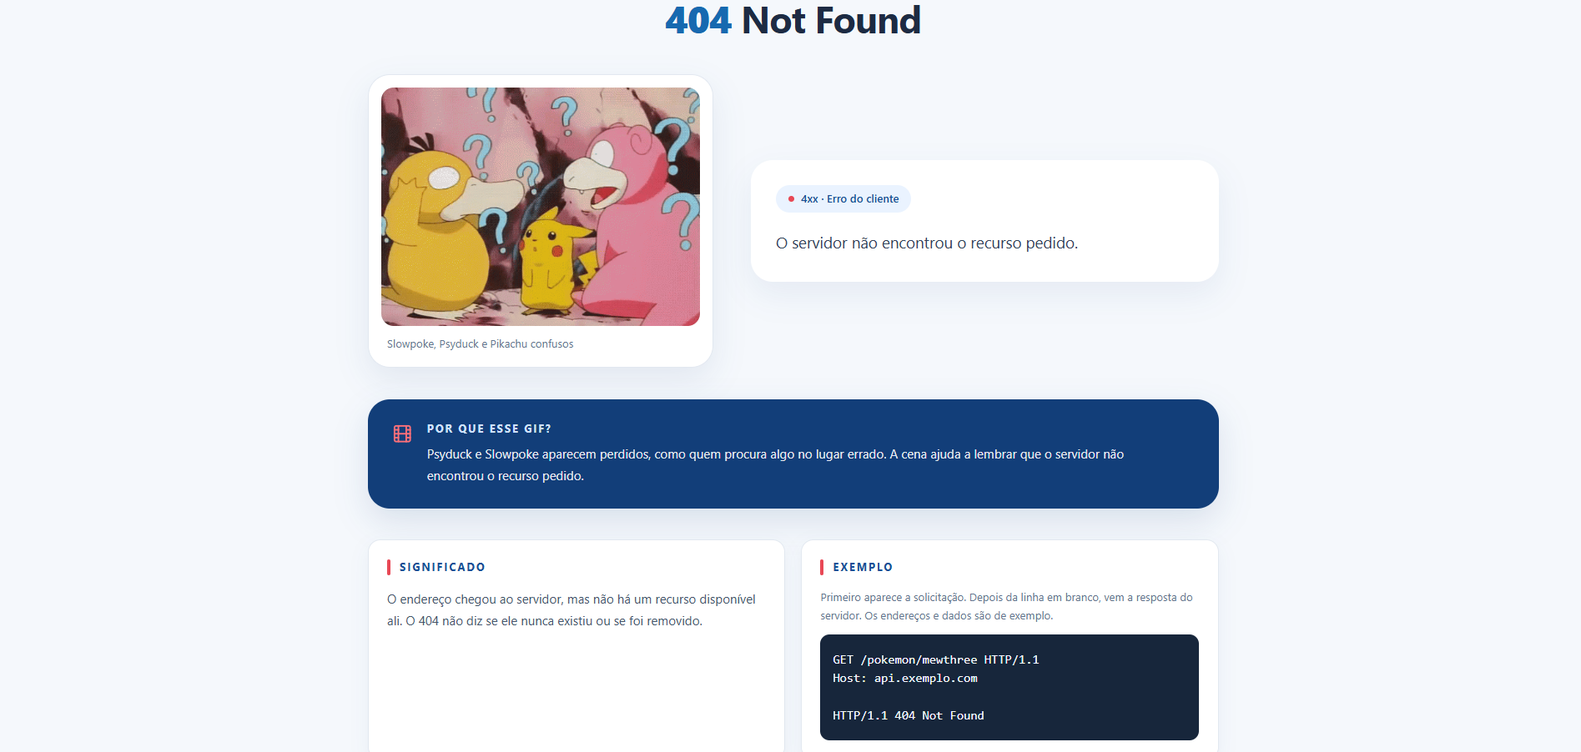
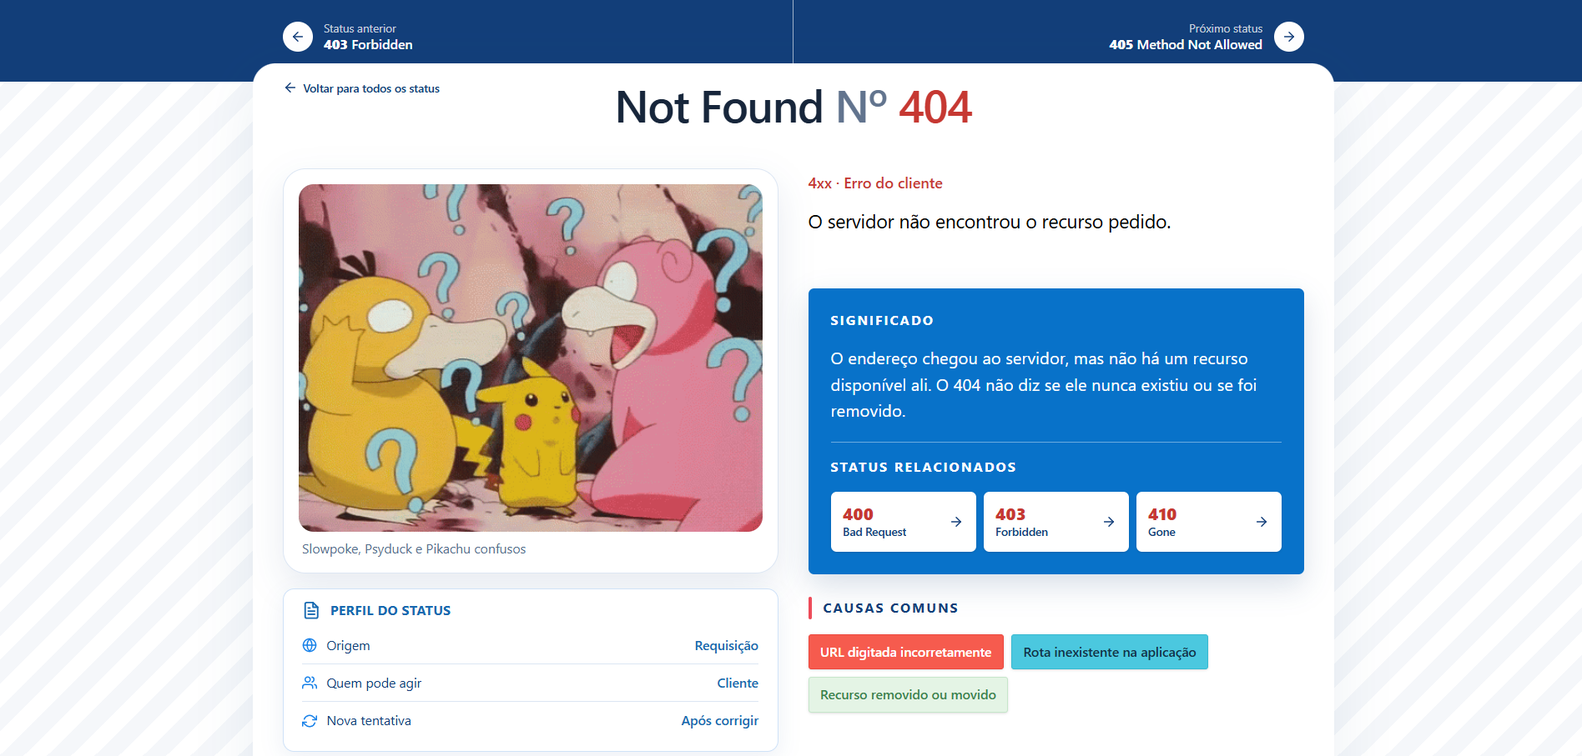
feat: adiciona tema escuro e arruma imagem desatualizada do readme

diff --git a/src/pages/Status/index.tsx b/src/pages/Status/index.tsx
@@ -129,7 +129,7 @@ const rfc9110Statuses = new Set([
 
 function SectionHeading({ id, children, accent = true }: { id?: string; children: ReactNode; accent?: boolean }) {
   return (
-    <h2 id={id} className="mb-4 flex items-center gap-3 text-sm font-bold uppercase tracking-[0.14em] text-[#123e79]">
+    <h2 id={id} className="mb-4 flex items-center gap-3 text-sm font-bold uppercase tracking-[0.14em] text-[#123e79] dark:text-[#b8d9ff]">
       {accent && <span aria-hidden="true" className="h-6 w-1 shrink-0 rounded-full bg-[#ed4b59]" />}
       {children}
     </h2>
@@ -143,11 +143,11 @@ export default function StatusPage() {
 
   if (!status) {
     return (
-      <div className="flex min-h-screen flex-col bg-[#f5f8fc] text-[#1c2b43]">
+      <div className="flex min-h-screen flex-col bg-[#f5f8fc] text-[#1c2b43] dark:bg-[#202020] dark:text-[#eeeeee]">
         <main className="mx-auto flex w-full max-w-3xl flex-1 flex-col items-center justify-center px-6 py-20 text-center">
           <p className="mb-3 text-sm font-bold uppercase tracking-[0.18em] text-[#e84855]">Status não cadastrado</p>
-          <h1 className="text-4xl font-black tracking-tight text-[#123e79] sm:text-5xl">Não encontramos esse código</h1>
-          <p className="mt-4 max-w-xl text-base leading-7 text-black">Ainda não temos esse código por aqui.</p>
+          <h1 className="text-4xl font-black tracking-tight text-[#123e79] dark:text-[#eeeeee] sm:text-5xl">Não encontramos esse código</h1>
+          <p className="mt-4 max-w-xl text-base leading-7 text-black dark:text-[#cecece]">Ainda não temos esse código por aqui.</p>
           <Link className="mt-8 rounded-full bg-[#1769b0] px-6 py-3 font-semibold text-white transition hover:bg-[#12548f] focus-visible:outline-2 focus-visible:outline-offset-4 focus-visible:outline-[#1769b0]" to="/">
             Voltar ao início
           </Link>
@@ -178,7 +178,7 @@ export default function StatusPage() {
   const causePalettes = getDistinctCausePalettes(status.commonCauses)
 
   return (
-    <div className="min-h-screen bg-[repeating-linear-gradient(135deg,#f5f7fa_0px,#f5f7fa_18px,#ffffff_18px,#ffffff_36px)] text-[#17263b]">
+    <div className="min-h-screen bg-[repeating-linear-gradient(135deg,#f5f7fa_0px,#f5f7fa_18px,#ffffff_18px,#ffffff_36px)] text-[#17263b] dark:bg-[repeating-linear-gradient(135deg,#1c1c1c_0px,#1c1c1c_18px,#242424_18px,#242424_36px)] dark:text-[#eeeeee]">
       <nav aria-label="Navegação entre status" className="bg-[#123e79] text-white">
         <div className="mx-auto grid min-h-24 max-w-6xl grid-cols-2">
           {previousStatus ? (
@@ -196,41 +196,41 @@ export default function StatusPage() {
         </div>
       </nav>
 
-      <main className="relative z-10 mx-auto -mt-5 max-w-6xl rounded-t-3xl bg-white shadow-[0_16px_60px_rgba(18,62,121,0.08)]">
+      <main className="relative z-10 mx-auto -mt-5 max-w-6xl rounded-t-3xl bg-white shadow-[0_16px_60px_rgba(18,62,121,0.08)] dark:bg-[#292929]">
 
         <header className="px-4 pb-4 pt-4 sm:px-8 lg:relative lg:h-28">
-          <Link className="relative z-20 inline-flex items-center gap-1.5 justify-self-start text-xs font-semibold text-[#123e79] transition hover:text-[#0b63b6]" to="/">
+          <Link className="relative z-20 inline-flex items-center gap-1.5 justify-self-start text-xs font-semibold text-[#123e79] transition hover:text-[#0b63b6] dark:text-[#dddddd] dark:hover:text-white" to="/">
             <FiArrowLeft aria-hidden="true" className="size-4 text-[#123e79]" />
             Voltar para todos os status
           </Link>
-          <h1 className={`mt-1 flex flex-wrap items-baseline justify-center gap-x-3 break-words text-center text-3xl font-semibold tracking-tight text-[#17263b] lg:absolute lg:inset-x-0 lg:top-5 lg:mt-0 lg:px-32 ${status.name.length > 22 ? 'lg:text-4xl' : 'lg:text-5xl'}`}>
-            <span>{status.name}</span><span className="text-slate-500">Nº <span style={{ color: statusPalette.color }}>{status.code}</span></span>
+          <h1 className={`mt-1 flex flex-wrap items-baseline justify-center gap-x-3 break-words text-center text-3xl font-semibold tracking-tight text-[#17263b] dark:text-[#f1f1f1] lg:absolute lg:inset-x-0 lg:top-5 lg:mt-0 lg:px-32 ${status.name.length > 22 ? 'lg:text-4xl' : 'lg:text-5xl'}`}>
+            <span>{status.name}</span><span className="text-slate-500 dark:text-[#bdbdbd]">Nº <span style={{ color: statusPalette.color }}>{status.code}</span></span>
           </h1>
         </header>
 
         <div className="px-4 pb-10 sm:px-8 sm:pb-14">
           <section aria-label={`${status.code} ${status.name}`} className="grid min-w-0 items-start gap-6 md:grid-cols-2 md:gap-8">
             <div className="min-w-0 space-y-4">
-              <figure className="w-full min-w-0 rounded-3xl border border-[#dce6f3] bg-white p-3 shadow-[0_14px_36px_rgba(18,62,121,0.10)] sm:p-4">
+              <figure className="w-full min-w-0 rounded-3xl border border-[#dce6f3] bg-white p-3 shadow-[0_14px_36px_rgba(18,62,121,0.10)] dark:border-[#555555] dark:bg-[#303030] sm:p-4">
                 <CardsPokemon key={status.code} alt={status.mediaDescription} media={status.media} mediaType={status.mediaType} />
-                <figcaption className="px-1 pt-2 text-sm text-[#55708f]">{status.mediaDescription}</figcaption>
+                <figcaption className="px-1 pt-2 text-sm text-[#55708f] dark:text-[#c9c9c9]">{status.mediaDescription}</figcaption>
               </figure>
 
-              <section aria-labelledby="status-profile-title" className="rounded-xl border border-[#cfe2f8] bg-white px-4 py-3 shadow-[0_8px_24px_rgba(18,62,121,0.07)] sm:px-5">
-                <h2 id="status-profile-title" className="mb-2 flex items-center gap-2.5 text-sm font-bold uppercase tracking-wide text-[#1769b0]">
+              <section aria-labelledby="status-profile-title" className="rounded-xl border border-[#cfe2f8] bg-white px-4 py-3 shadow-[0_8px_24px_rgba(18,62,121,0.07)] dark:border-[#555555] dark:bg-[#303030] sm:px-5">
+                <h2 id="status-profile-title" className="mb-2 flex items-center gap-2.5 text-sm font-bold uppercase tracking-wide text-[#1769b0] dark:text-[#e0e0e0]">
                   <FiFileText aria-hidden="true" className="size-5 shrink-0" />
                   Perfil do status
                 </h2>
-                <ul className="divide-y divide-[#dce6f3]">
+                <ul className="divide-y divide-[#dce6f3] dark:divide-[#505050]">
                   {[
                     { label: 'Origem', value: statusProfile.origin, icon: FiGlobe },
                     { label: 'Quem pode agir', value: statusProfile.owner, icon: FiUsers },
                     { label: 'Nova tentativa', value: statusProfile.retry, icon: FiRefreshCw },
                   ].map(({ label, value, icon: Icon }) => (
-                    <li className="flex min-h-10 items-center gap-2.5 py-1.5 text-sm text-[#123e79]" key={label}>
-                      <Icon aria-hidden="true" className="size-4 shrink-0 text-[#1680e8]" />
+                    <li className="flex min-h-10 items-center gap-2.5 py-1.5 text-sm text-[#123e79] dark:text-[#dddddd]" key={label}>
+                      <Icon aria-hidden="true" className="size-4 shrink-0 text-[#1680e8] dark:text-[#c8c8c8]" />
                       <span>{label}</span>
-                      <span className="ml-auto max-w-[58%] text-right font-semibold text-[#1769b0]">{value}</span>
+                      <span className="ml-auto max-w-[58%] text-right font-semibold text-[#1769b0] dark:text-[#eeeeee]">{value}</span>
                     </li>
                   ))}
                 </ul>
@@ -239,7 +239,7 @@ export default function StatusPage() {
 
             <div className="min-w-0 pt-1">
               <p className="mb-3 text-base font-medium" style={{ color: statusPalette.color }}>{status.categoryRange} · {status.categoryLabel}</p>
-              <p className="break-words text-lg leading-8 text-black sm:text-xl">{status.description}</p>
+              <p className="break-words text-lg leading-8 text-black dark:text-[#dddddd] sm:text-xl">{status.description}</p>
 
               <section aria-labelledby="meaning-title" className="mt-10 rounded-md bg-[#0872c9] p-5 text-white shadow-[0_12px_30px_rgba(18,62,121,0.16)] sm:mt-14 sm:p-6">
                 <SectionHeading accent={false} id="meaning-title"><span className="text-white">Significado</span></SectionHeading>
@@ -278,10 +278,10 @@ export default function StatusPage() {
             </div>
           </section>
 
-          <section aria-label="Detalhes do status" className="mt-8 grid min-w-0 gap-5 border-t border-[#b8d7f7] pt-5 sm:mt-10 sm:grid-cols-2 sm:gap-6 sm:pt-5">
-            <section className="min-w-0 sm:border-r sm:border-[#b8d7f7] sm:pr-6">
+          <section aria-label="Detalhes do status" className="mt-8 grid min-w-0 gap-5 border-t border-[#b8d7f7] pt-5 dark:border-[#505050] sm:mt-10 sm:grid-cols-2 sm:gap-6 sm:pt-5">
+            <section className="min-w-0 sm:border-r sm:border-[#b8d7f7] sm:pr-6 dark:sm:border-[#505050]">
               <SectionHeading>Por que esse GIF?</SectionHeading>
-              <p className="rounded-md bg-[#eef5ff] px-4 py-3 leading-7 text-black">{status.mediaReason}</p>
+              <p className="rounded-md bg-[#eef5ff] px-4 py-3 leading-7 text-black dark:bg-[#383838] dark:text-[#dddddd]">{status.mediaReason}</p>
             </section>
 
             <section className="min-w-0">
@@ -292,30 +292,30 @@ export default function StatusPage() {
 
           {status.resolutionSteps && <ResolutionGuide steps={status.resolutionSteps} />}
 
-          <section aria-labelledby="references-title" className="mt-4 border-t border-[#b8d7f7] pt-6 sm:mt-5 sm:pt-7">
+          <section aria-labelledby="references-title" className="mt-4 border-t border-[#b8d7f7] pt-6 dark:border-[#505050] sm:mt-5 sm:pt-7">
             <SectionHeading id="references-title">Consulte também</SectionHeading>
             <ul className="space-y-1.5">
               <li>
-                <a className="group flex items-center gap-3 rounded-md bg-[#f2f7fd] px-3 py-2.5 text-[#123e79] transition hover:bg-[#e6f1fc]" href={specificationUrl} rel="noreferrer" target="_blank">
-                  <FiExternalLink aria-hidden="true" className="size-5 shrink-0 text-[#123e79]" />
-                  <span className="min-w-0 flex-1"><span className="block text-sm font-semibold text-[#123e79]">{isRfcStatus ? `RFC ${status.code === 102 || [207, 423, 424].includes(status.code) ? '4918' : status.code === 208 ? '5842' : status.code === 226 ? '3229' : '9110'}` : 'Registro de códigos HTTP · IANA'}</span><span className="block text-xs leading-5 text-black">{isRfcStatus ? `Especificação do status ${status.code} ${status.name}.` : 'Registro oficial dos códigos HTTP.'}</span></span>
-                  <FiArrowRight aria-hidden="true" className="size-4 shrink-0 text-[#123e79] transition group-hover:translate-x-0.5" />
+                <a className="group flex items-center gap-3 rounded-md bg-[#f2f7fd] px-3 py-2.5 text-[#123e79] transition hover:bg-[#e6f1fc] dark:bg-[#373737] dark:text-[#e5e5e5] dark:hover:bg-[#444444]" href={specificationUrl} rel="noreferrer" target="_blank">
+                  <FiExternalLink aria-hidden="true" className="size-5 shrink-0 text-[#123e79] dark:text-[#8fc7ff]" />
+                  <span className="min-w-0 flex-1"><span className="block text-sm font-semibold text-[#123e79] dark:text-[#b8d9ff]">{isRfcStatus ? `RFC ${status.code === 102 || [207, 423, 424].includes(status.code) ? '4918' : status.code === 208 ? '5842' : status.code === 226 ? '3229' : '9110'}` : 'Registro de códigos HTTP · IANA'}</span><span className="block text-xs leading-5 text-black dark:text-slate-300">{isRfcStatus ? `Especificação do status ${status.code} ${status.name}.` : 'Registro oficial dos códigos HTTP.'}</span></span>
+                  <FiArrowRight aria-hidden="true" className="size-4 shrink-0 text-[#123e79] transition group-hover:translate-x-0.5 dark:text-[#8fc7ff]" />
                 </a>
               </li>
               {status.code === 100 && (
                 <li>
-                  <a className="group flex items-center gap-3 rounded-md bg-[#f2f7fd] px-3 py-2.5 text-[#123e79] transition hover:bg-[#e6f1fc]" href="https://developer.mozilla.org/pt-BR/docs/Web/HTTP/Headers/Expect" rel="noreferrer" target="_blank">
-                    <FiExternalLink aria-hidden="true" className="size-5 shrink-0 text-[#123e79]" />
-                    <span className="min-w-0 flex-1"><span className="block text-sm font-semibold text-[#123e79]">Cabeçalho Expect</span><span className="block text-xs leading-5 text-black">Usado para aguardar 100 Continue antes de enviar o corpo.</span></span>
-                    <FiArrowRight aria-hidden="true" className="size-4 shrink-0 text-[#123e79] transition group-hover:translate-x-0.5" />
+                <a className="group flex items-center gap-3 rounded-md bg-[#f2f7fd] px-3 py-2.5 text-[#123e79] transition hover:bg-[#e6f1fc] dark:bg-[#373737] dark:text-[#e5e5e5] dark:hover:bg-[#444444]" href="https://developer.mozilla.org/pt-BR/docs/Web/HTTP/Headers/Expect" rel="noreferrer" target="_blank">
+                    <FiExternalLink aria-hidden="true" className="size-5 shrink-0 text-[#123e79] dark:text-[#8fc7ff]" />
+                    <span className="min-w-0 flex-1"><span className="block text-sm font-semibold text-[#123e79] dark:text-[#b8d9ff]">Cabeçalho Expect</span><span className="block text-xs leading-5 text-black dark:text-slate-300">Usado para aguardar 100 Continue antes de enviar o corpo.</span></span>
+                    <FiArrowRight aria-hidden="true" className="size-4 shrink-0 text-[#123e79] transition group-hover:translate-x-0.5 dark:text-[#8fc7ff]" />
                   </a>
                 </li>
               )}
               <li>
-                <a className="group flex items-center gap-3 rounded-md bg-[#f2f7fd] px-3 py-2.5 text-[#123e79] transition hover:bg-[#e6f1fc]" href={sourceUrl} rel="noreferrer" target="_blank">
-                  <FiExternalLink aria-hidden="true" className="size-5 shrink-0 text-[#123e79]" />
-                  <span className="min-w-0 flex-1"><span className="block text-sm font-semibold text-[#123e79]">{isRfcStatus ? `MDN · HTTP ${status.code} ${status.name}` : 'MDN · Códigos de status HTTP'}</span><span className="block text-xs leading-5 text-black">Documentação e exemplos práticos.</span></span>
-                  <FiArrowRight aria-hidden="true" className="size-4 shrink-0 text-[#123e79] transition group-hover:translate-x-0.5" />
+                <a className="group flex items-center gap-3 rounded-md bg-[#f2f7fd] px-3 py-2.5 text-[#123e79] transition hover:bg-[#e6f1fc] dark:bg-[#373737] dark:text-[#e5e5e5] dark:hover:bg-[#444444]" href={sourceUrl} rel="noreferrer" target="_blank">
+                  <FiExternalLink aria-hidden="true" className="size-5 shrink-0 text-[#123e79] dark:text-[#8fc7ff]" />
+                  <span className="min-w-0 flex-1"><span className="block text-sm font-semibold text-[#123e79] dark:text-[#b8d9ff]">{isRfcStatus ? `MDN · HTTP ${status.code} ${status.name}` : 'MDN · Códigos de status HTTP'}</span><span className="block text-xs leading-5 text-black dark:text-slate-300">Documentação e exemplos práticos.</span></span>
+                  <FiArrowRight aria-hidden="true" className="size-4 shrink-0 text-[#123e79] transition group-hover:translate-x-0.5 dark:text-[#8fc7ff]" />
                 </a>
               </li>
             </ul>

diff --git a/src/pages/Home/index.tsx b/src/pages/Home/index.tsx
@@ -1,5 +1,5 @@
 import { useState } from 'react'
-import { FiCheck, FiCopy } from 'react-icons/fi'
+import { FiCheck, FiCopy, FiMoon, FiSun } from 'react-icons/fi'
 import Cards from '../../components/Cards/Cards'
 import Footer from '../../components/Footer/Footer'
 import httpmonLogo from '../../assets/images/Logotipo_httpmon_transparente.png'
@@ -7,6 +7,7 @@ import { httpStatuses } from '../../services/httpStatuses'
 
 export default function HomePage() {
   const [copied, setCopied] = useState(false)
+  const [isDarkMode, setIsDarkMode] = useState(() => window.localStorage.getItem('httpmon-theme') === 'dark')
   const groups = [
     { range: '1xx', title: 'Respostas informativas', label: 'Informational' },
     { range: '2xx', title: 'Respostas bem-sucedidas', label: 'Success' },
@@ -27,19 +28,37 @@ export default function HomePage() {
     window.setTimeout(() => setCopied(false), 1800)
   }
 
+  function toggleTheme() {
+    const next = !isDarkMode
+    setIsDarkMode(next)
+    window.localStorage.setItem('httpmon-theme', next ? 'dark' : 'light')
+    document.documentElement.classList.toggle('dark', next)
+  }
+
   return (
-    <div className="flex min-h-screen flex-col bg-[#f5f8fc] text-[#1c2b43]">
-      <main className="mx-auto w-full max-w-6xl flex-1 px-4 pb-12 pt-7 sm:px-8 sm:pb-16 sm:pt-12">
+    <div className="flex min-h-screen flex-col bg-[#f5f8fc] text-[#1c2b43] transition-colors duration-200 dark:bg-[#202020] dark:text-[#eeeeee]">
+      <main className="relative mx-auto w-full max-w-6xl flex-1 px-4 pb-12 pt-7 sm:px-8 sm:pb-16 sm:pt-12">
+        <button
+          aria-label={isDarkMode ? 'Ativar tema claro' : 'Ativar tema escuro'}
+          aria-pressed={isDarkMode}
+          className="absolute right-4 top-5 z-10 grid size-12 place-items-center rounded-full border border-[#cfe0f4] bg-white text-[#123e79] shadow-md transition hover:bg-[#eaf3ff] focus-visible:outline-2 focus-visible:outline-offset-2 focus-visible:outline-[#1769b0] dark:border-[#555555] dark:bg-[#343434] dark:text-[#eeeeee] dark:hover:bg-[#454545] sm:flex sm:h-12 sm:w-auto sm:justify-center sm:gap-2 sm:px-4 sm:right-8 sm:top-8"
+          onClick={toggleTheme}
+          title={isDarkMode ? 'Ativar tema claro' : 'Ativar tema escuro'}
+          type="button"
+        >
+          {isDarkMode ? <FiSun aria-hidden="true" className="size-6" /> : <FiMoon aria-hidden="true" className="size-6" />}
+          <span className="hidden text-sm font-semibold sm:inline">{isDarkMode ? 'Tema claro' : 'Tema escuro'}</span>
+        </button>
         <header className="text-center">
           <img alt="HTTPmon" className="mx-auto h-auto w-64 sm:w-80" src={httpmonLogo} />
-          <p className="mt-5 text-base font-medium text-slate-700 sm:text-lg">
+          <p className="mt-5 text-base font-medium text-slate-700 dark:text-[#d0d0d0] sm:text-lg">
             Códigos de status HTTP explicados com cenas de Pokémon.
           </p>
         </header>
 
         <section aria-labelledby="usage-title" className="mt-9 sm:mt-14">
-          <h2 id="usage-title" className="mb-3 text-base font-semibold text-slate-600 sm:text-lg">
-            Como usar: troque <code className="font-bold text-[#174f96]">[code]</code> por um código de status HTTP.
+          <h2 id="usage-title" className="mb-3 text-base font-semibold text-slate-600 dark:text-[#d0d0d0] sm:text-lg">
+            Como usar: troque <code className="font-bold text-[#174f96] dark:text-[#dedede]">[code]</code> por um código de status HTTP.
           </h2>
           <div className="flex min-w-0 items-center justify-between gap-2 rounded-xl bg-[#202b3b] px-3 py-3 text-white sm:gap-4 sm:px-6 sm:py-5">
             <code className="min-w-0 break-all font-mono text-xs sm:text-lg">{usageUrl}</code>
@@ -52,23 +71,23 @@ export default function HomePage() {
               {copied ? <FiCheck aria-hidden="true" className="size-5" /> : <FiCopy aria-hidden="true" className="size-5" />}
             </button>
           </div>
-          <p aria-live="polite" className="mt-2 min-h-6 text-xs leading-5 text-slate-500 sm:text-sm">
+          <p aria-live="polite" className="mt-2 min-h-6 text-xs leading-5 text-slate-500 dark:text-[#bdbdbd] sm:text-sm">
             {copied ? 'Endereço copiado.' : 'Exemplo: /status/100 abre a página do status 100.'}
           </p>
         </section>
 
         {groups.map((group) => (
           <section aria-labelledby={`${group.range}-title`} className="mt-9 scroll-mt-4 sm:mt-14" id={group.range} key={group.range}>
-            <div className="mb-6 flex flex-wrap items-end justify-between gap-3 border-b border-slate-200 pb-4">
+            <div className="mb-6 flex flex-wrap items-end justify-between gap-3 border-b border-slate-200 pb-4 dark:border-[#4a4a4a]">
               <div>
-                <p className="text-xs font-bold uppercase tracking-[0.14em] text-[#1769b0] sm:text-sm sm:tracking-[0.18em]">
+                <p className="text-xs font-bold uppercase tracking-[0.14em] text-[#1769b0] dark:text-[#d5d5d5] sm:text-sm sm:tracking-[0.18em]">
                   {group.range} · {group.label}
                 </p>
-                <h2 id={`${group.range}-title`} className="mt-1 text-xl font-black text-[#1d2b43] sm:text-3xl">
+                <h2 id={`${group.range}-title`} className="mt-1 text-xl font-black text-[#1d2b43] dark:text-[#f1f1f1] sm:text-3xl">
                   {group.title}
                 </h2>
               </div>
-              <p className="text-sm text-slate-500">{group.statuses.length} status</p>
+              <p className="text-sm text-slate-500 dark:text-[#bdbdbd]">{group.statuses.length} status</p>
             </div>
             <div className="grid gap-5 sm:grid-cols-2 lg:grid-cols-3">
               {group.statuses.map((status) => <Cards key={status.code} status={status} />)}

diff --git a/src/components/Cards/Cards.tsx b/src/components/Cards/Cards.tsx
@@ -9,7 +9,7 @@ type CardsProps = {
 export default function Cards({ status }: CardsProps) {
   return (
     <Link
-      className="group block overflow-hidden rounded-2xl border border-slate-200 bg-white shadow-[0_8px_24px_rgba(18,62,121,0.06)] transition duration-200 hover:-translate-y-1 hover:border-[#9fc7f3] hover:shadow-[0_16px_32px_rgba(18,62,121,0.13)] focus-visible:outline-2 focus-visible:outline-offset-4 focus-visible:outline-[#1769b0]"
+      className="group block overflow-hidden rounded-2xl border border-slate-200 bg-white shadow-[0_8px_24px_rgba(18,62,121,0.06)] transition duration-200 hover:-translate-y-1 hover:border-[#9fc7f3] hover:shadow-[0_16px_32px_rgba(18,62,121,0.13)] focus-visible:outline-2 focus-visible:outline-offset-4 focus-visible:outline-[#1769b0] dark:border-[#505050] dark:bg-[#303030] dark:hover:border-[#777777]"
       onClick={() => sessionStorage.setItem('httpmon-home-scroll-position', String(window.scrollY))}
       to={`/status/${status.code}`}
     >
@@ -17,12 +17,12 @@ export default function Cards({ status }: CardsProps) {
       <div className="min-w-0 p-4 sm:p-5">
         <div className="flex min-w-0 items-start justify-between gap-2 sm:gap-3">
           <span className="text-3xl font-black leading-none tracking-tight text-[#1769b0]">{status.code}</span>
-          <span className="shrink-0 rounded-full bg-[#eaf3ff] px-2.5 py-1 text-[11px] font-bold uppercase tracking-wide text-[#174f96] sm:px-3 sm:text-xs">
+          <span className="shrink-0 rounded-full bg-[#eaf3ff] px-2.5 py-1 text-[11px] font-bold uppercase tracking-wide text-[#174f96] dark:bg-[#454545] dark:text-[#eeeeee] sm:px-3 sm:text-xs">
             {status.categoryRange}
           </span>
         </div>
-        <h3 className="mt-4 break-words text-base font-bold leading-snug text-[#1d2b43] group-hover:text-[#1769b0] sm:text-lg">{status.name}</h3>
-        <p className="mt-2 line-clamp-3 break-words text-sm leading-6 text-slate-600 sm:line-clamp-2">{status.description}</p>
+        <h3 className="mt-4 break-words text-base font-bold leading-snug text-[#1d2b43] group-hover:text-[#1769b0] dark:text-[#f1f1f1] dark:group-hover:text-white sm:text-lg">{status.name}</h3>
+        <p className="mt-2 line-clamp-3 break-words text-sm leading-6 text-slate-600 dark:text-[#cecece] sm:line-clamp-2">{status.description}</p>
         <p className="mt-4 text-sm font-semibold text-[#1769b0]">Ver detalhes <span aria-hidden="true">→</span></p>
       </div>
     </Link>

diff --git a/src/components/ResolutionGuide/ResolutionGuide.tsx b/src/components/ResolutionGuide/ResolutionGuide.tsx
@@ -11,7 +11,7 @@ export default function ResolutionGuide({ steps }: ResolutionGuideProps) {
   if (steps.length === 0) return null
 
   return (
-    <section aria-labelledby="resolution-guide-title" className="relative isolate mt-8 overflow-hidden rounded-2xl bg-[#102f5d] p-5 text-white shadow-[0_14px_36px_rgba(18,62,121,0.16)] sm:mt-10 sm:p-7">
+    <section aria-labelledby="resolution-guide-title" className="relative isolate mt-8 overflow-hidden rounded-2xl bg-[#102f5d] p-5 text-white shadow-[0_14px_36px_rgba(18,62,121,0.16)] dark:bg-[#292929] sm:mt-10 sm:p-7">
       <div aria-hidden="true" className="pointer-events-none absolute inset-0 -z-10 opacity-30 [background-image:repeating-linear-gradient(135deg,transparent_0,transparent_26px,rgba(255,255,255,0.08)_26px,rgba(255,255,255,0.08)_48px)]" />
 
       <div className="mb-5 flex items-center gap-3 sm:mb-6">
@@ -27,7 +27,7 @@ export default function ResolutionGuide({ steps }: ResolutionGuideProps) {
           const StepIcon = stepIcons[index % stepIcons.length]
 
           return (
-            <li className="relative min-w-0 list-none rounded-xl border border-white/15 bg-[#17477f] p-4 shadow-sm sm:p-5" key={`${step.title}-${index}`}>
+            <li className="relative min-w-0 list-none rounded-xl border border-white/15 bg-[#17477f] p-4 shadow-sm dark:bg-[#383838] sm:p-5" key={`${step.title}-${index}`}>
               <div className="mb-4 flex items-center justify-between gap-3">
                 <span className="grid size-10 place-items-center rounded-full bg-[#0872c9] text-lg font-extrabold text-white ring-4 ring-white/10">{index + 1}</span>
                 <StepIcon aria-hidden="true" className="size-6 text-[#a9dcff]" />

diff --git a/src/components/CardsPokemon/CardsPokemon.tsx b/src/components/CardsPokemon/CardsPokemon.tsx
@@ -47,7 +47,7 @@ export default function CardsPokemon({ media, alt, mediaType, layout = 'detail' 
 
   return (
     <div
-      className={`relative flex ${aspectClass} w-full items-center justify-center overflow-hidden rounded-2xl bg-slate-100`}
+      className={`relative flex ${aspectClass} w-full items-center justify-center overflow-hidden rounded-2xl bg-slate-100 dark:bg-[#3a3a3a]`}
       ref={mediaRef}
     >
       {src && mediaType === 'video' && (

diff --git a/src/components/MediaLoader/MediaLoader.tsx b/src/components/MediaLoader/MediaLoader.tsx
@@ -7,7 +7,7 @@ export default function MediaLoader({ message, isLoading = true }: MediaLoaderPr
   return (
     <div
       aria-live="polite"
-      className="absolute inset-0 flex flex-col items-center justify-center gap-3 bg-[#123e79] px-4 text-center text-white"
+      className="absolute inset-0 flex flex-col items-center justify-center gap-3 bg-[#123e79] px-4 text-center text-white dark:bg-[#303030]"
       role="status"
     >
       {isLoading ? (

diff --git a/src/main.tsx b/src/main.tsx
@@ -4,6 +4,8 @@ import { BrowserRouter } from 'react-router'
 import './globals.css'
 import App from './App.tsx'
 
+document.documentElement.classList.toggle('dark', window.localStorage.getItem('httpmon-theme') === 'dark')
+
 createRoot(document.getElementById('root')!).render(
   <StrictMode>
     <BrowserRouter>

diff --git a/src/globals.css b/src/globals.css
@@ -1,1 +1,3 @@
 @import "tailwindcss";
+
+@custom-variant dark (&:where(.dark, .dark *));
